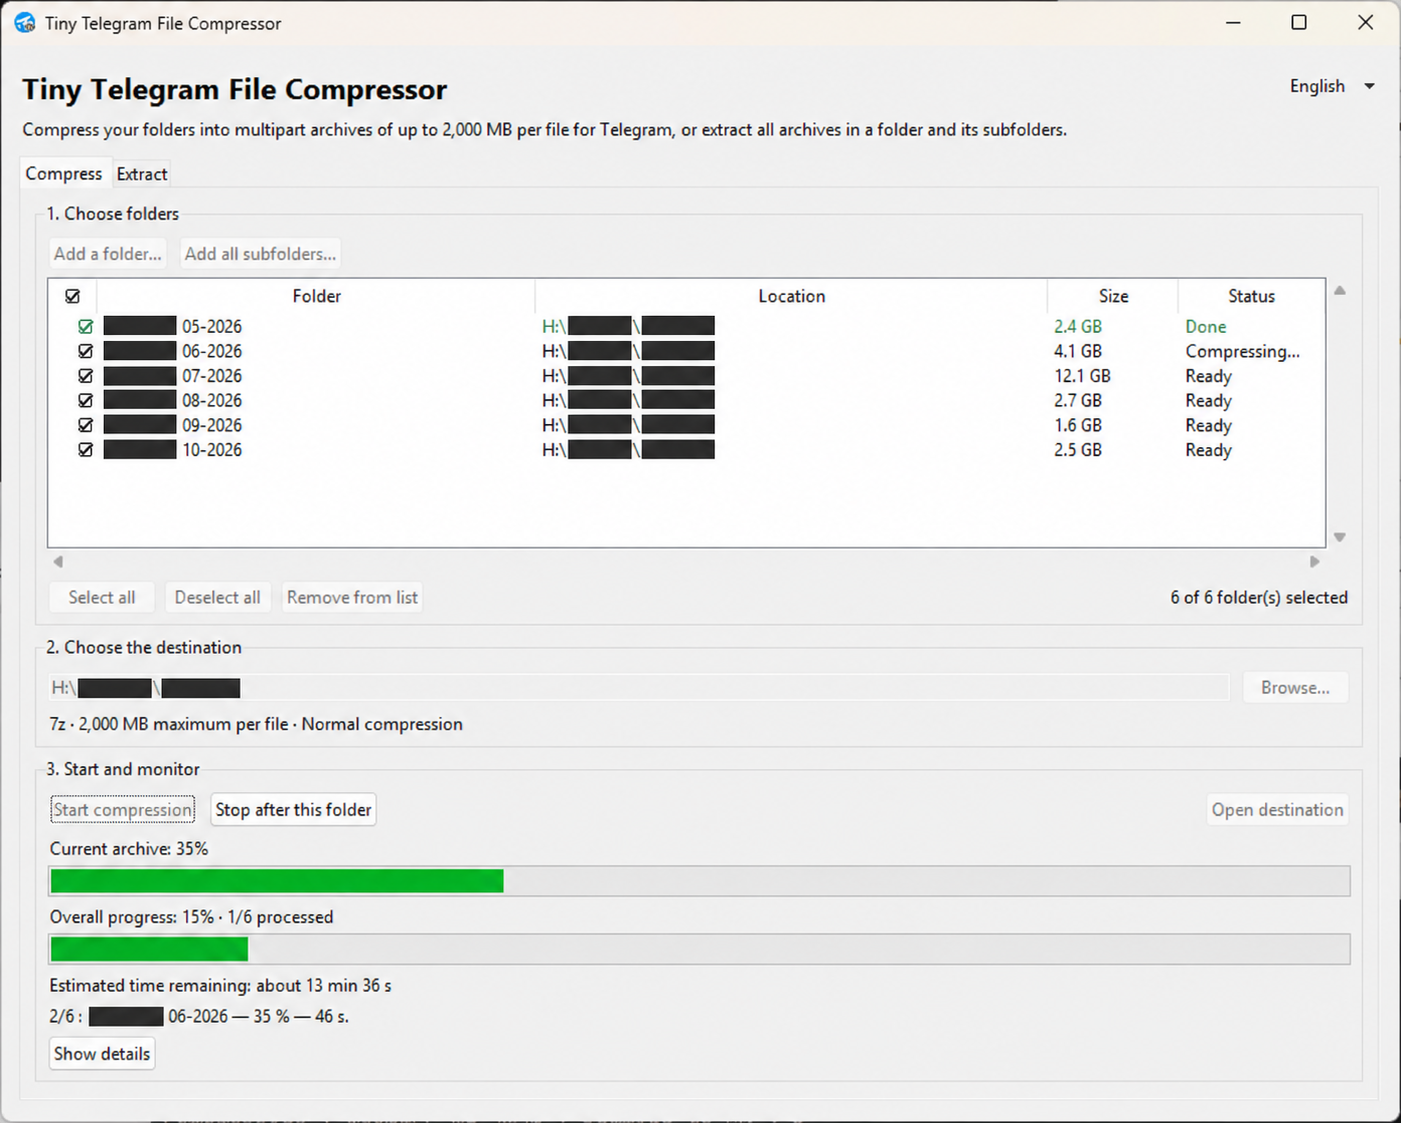
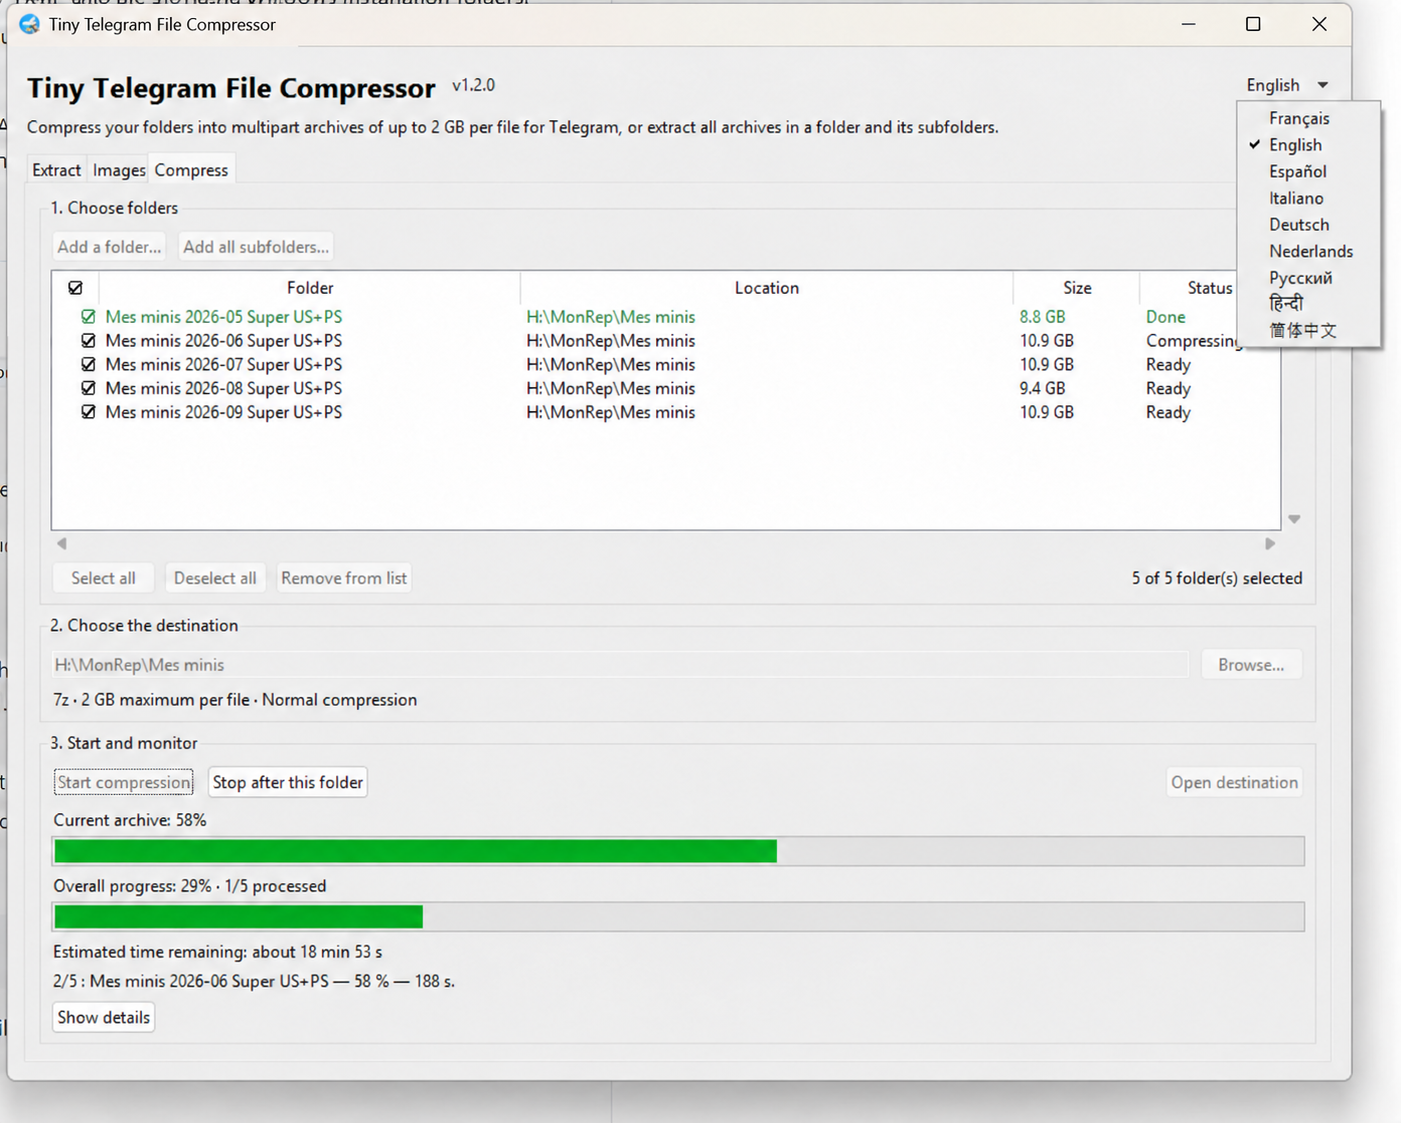
Refresh compression screenshot with example folder names and nine languages

Changed region(s): [[0.0, 0.0, 1.0, 1.0], [0.3683, 0.2805, 0.5218, 0.4363], [0.8287, 0.0, 1.0, 0.0312]]

diff --git a/README.md b/README.md
@@ -18,7 +18,7 @@ Windows releases are currently unsigned. Our application to the **SignPath Found
 
 **Folder compression**
 
-![Compression in progress with folder selection, progress bars and estimated remaining time. Personal folder names and paths are hidden.](assets/screenshot-compression.png)
+![Compression in progress with example folder names, progress bars, estimated remaining time and the nine-language menu.](assets/screenshot-compression.png)
 
 **Archive extraction and language selection**
 
